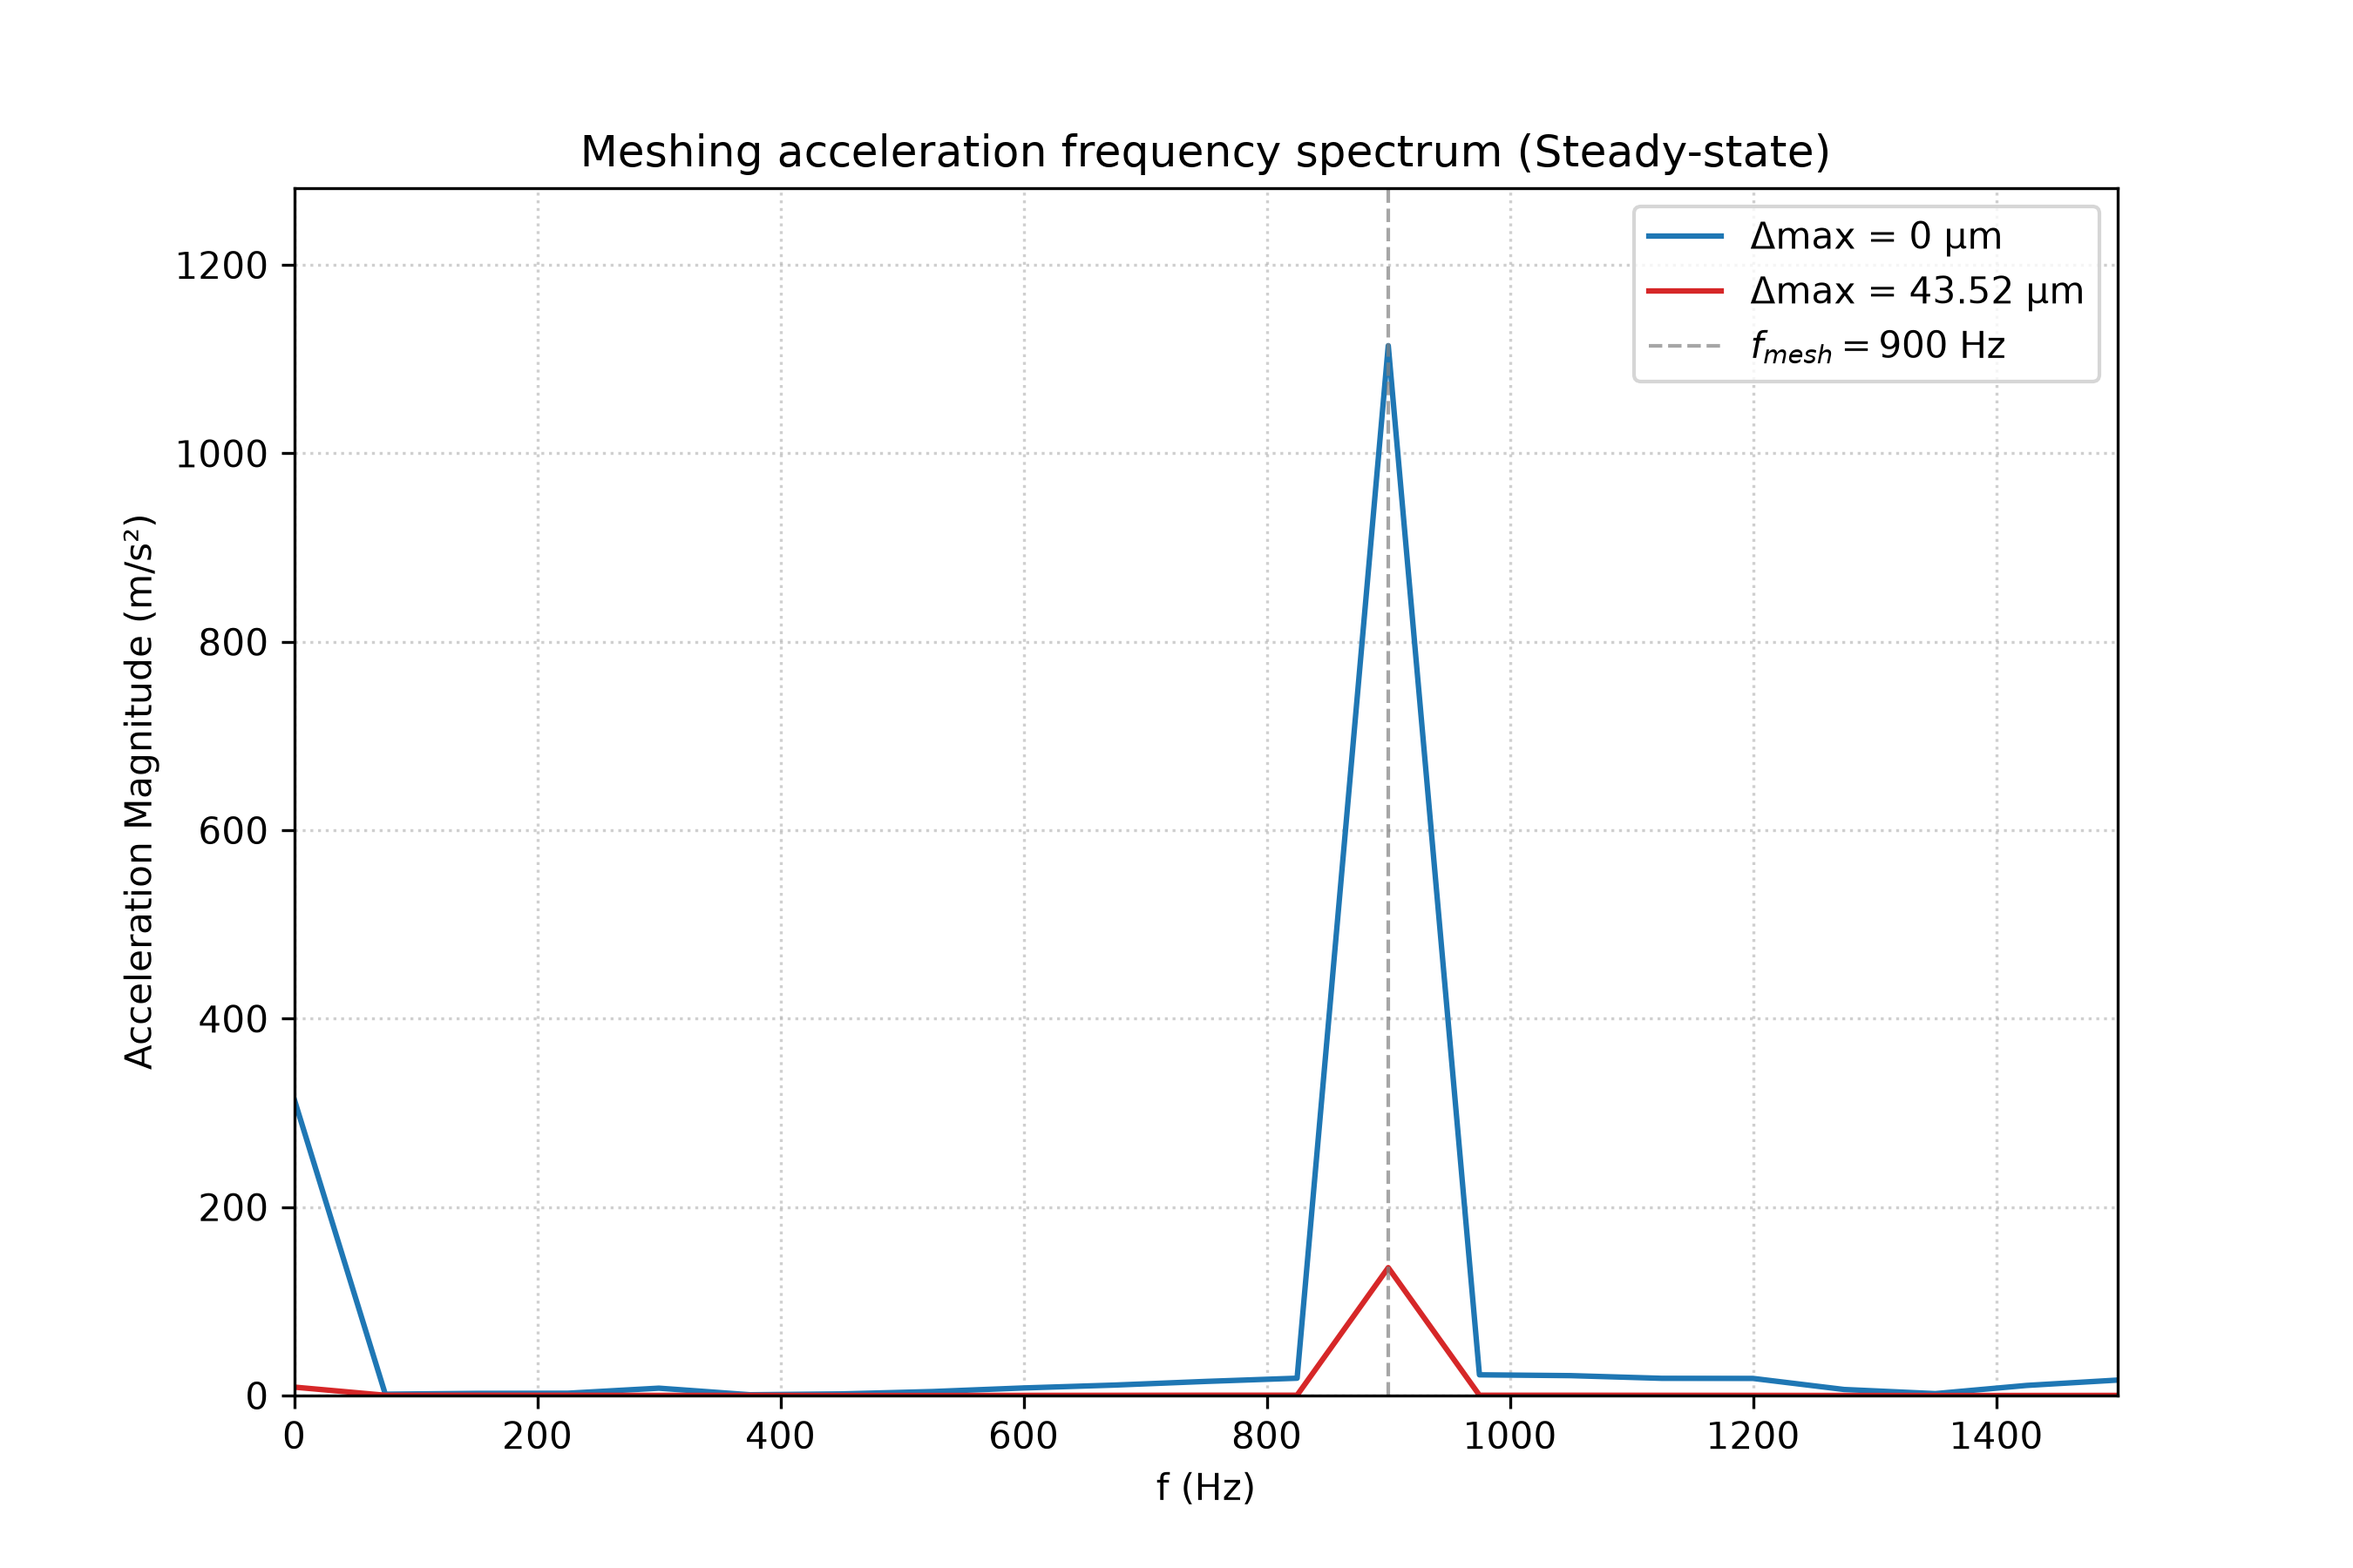
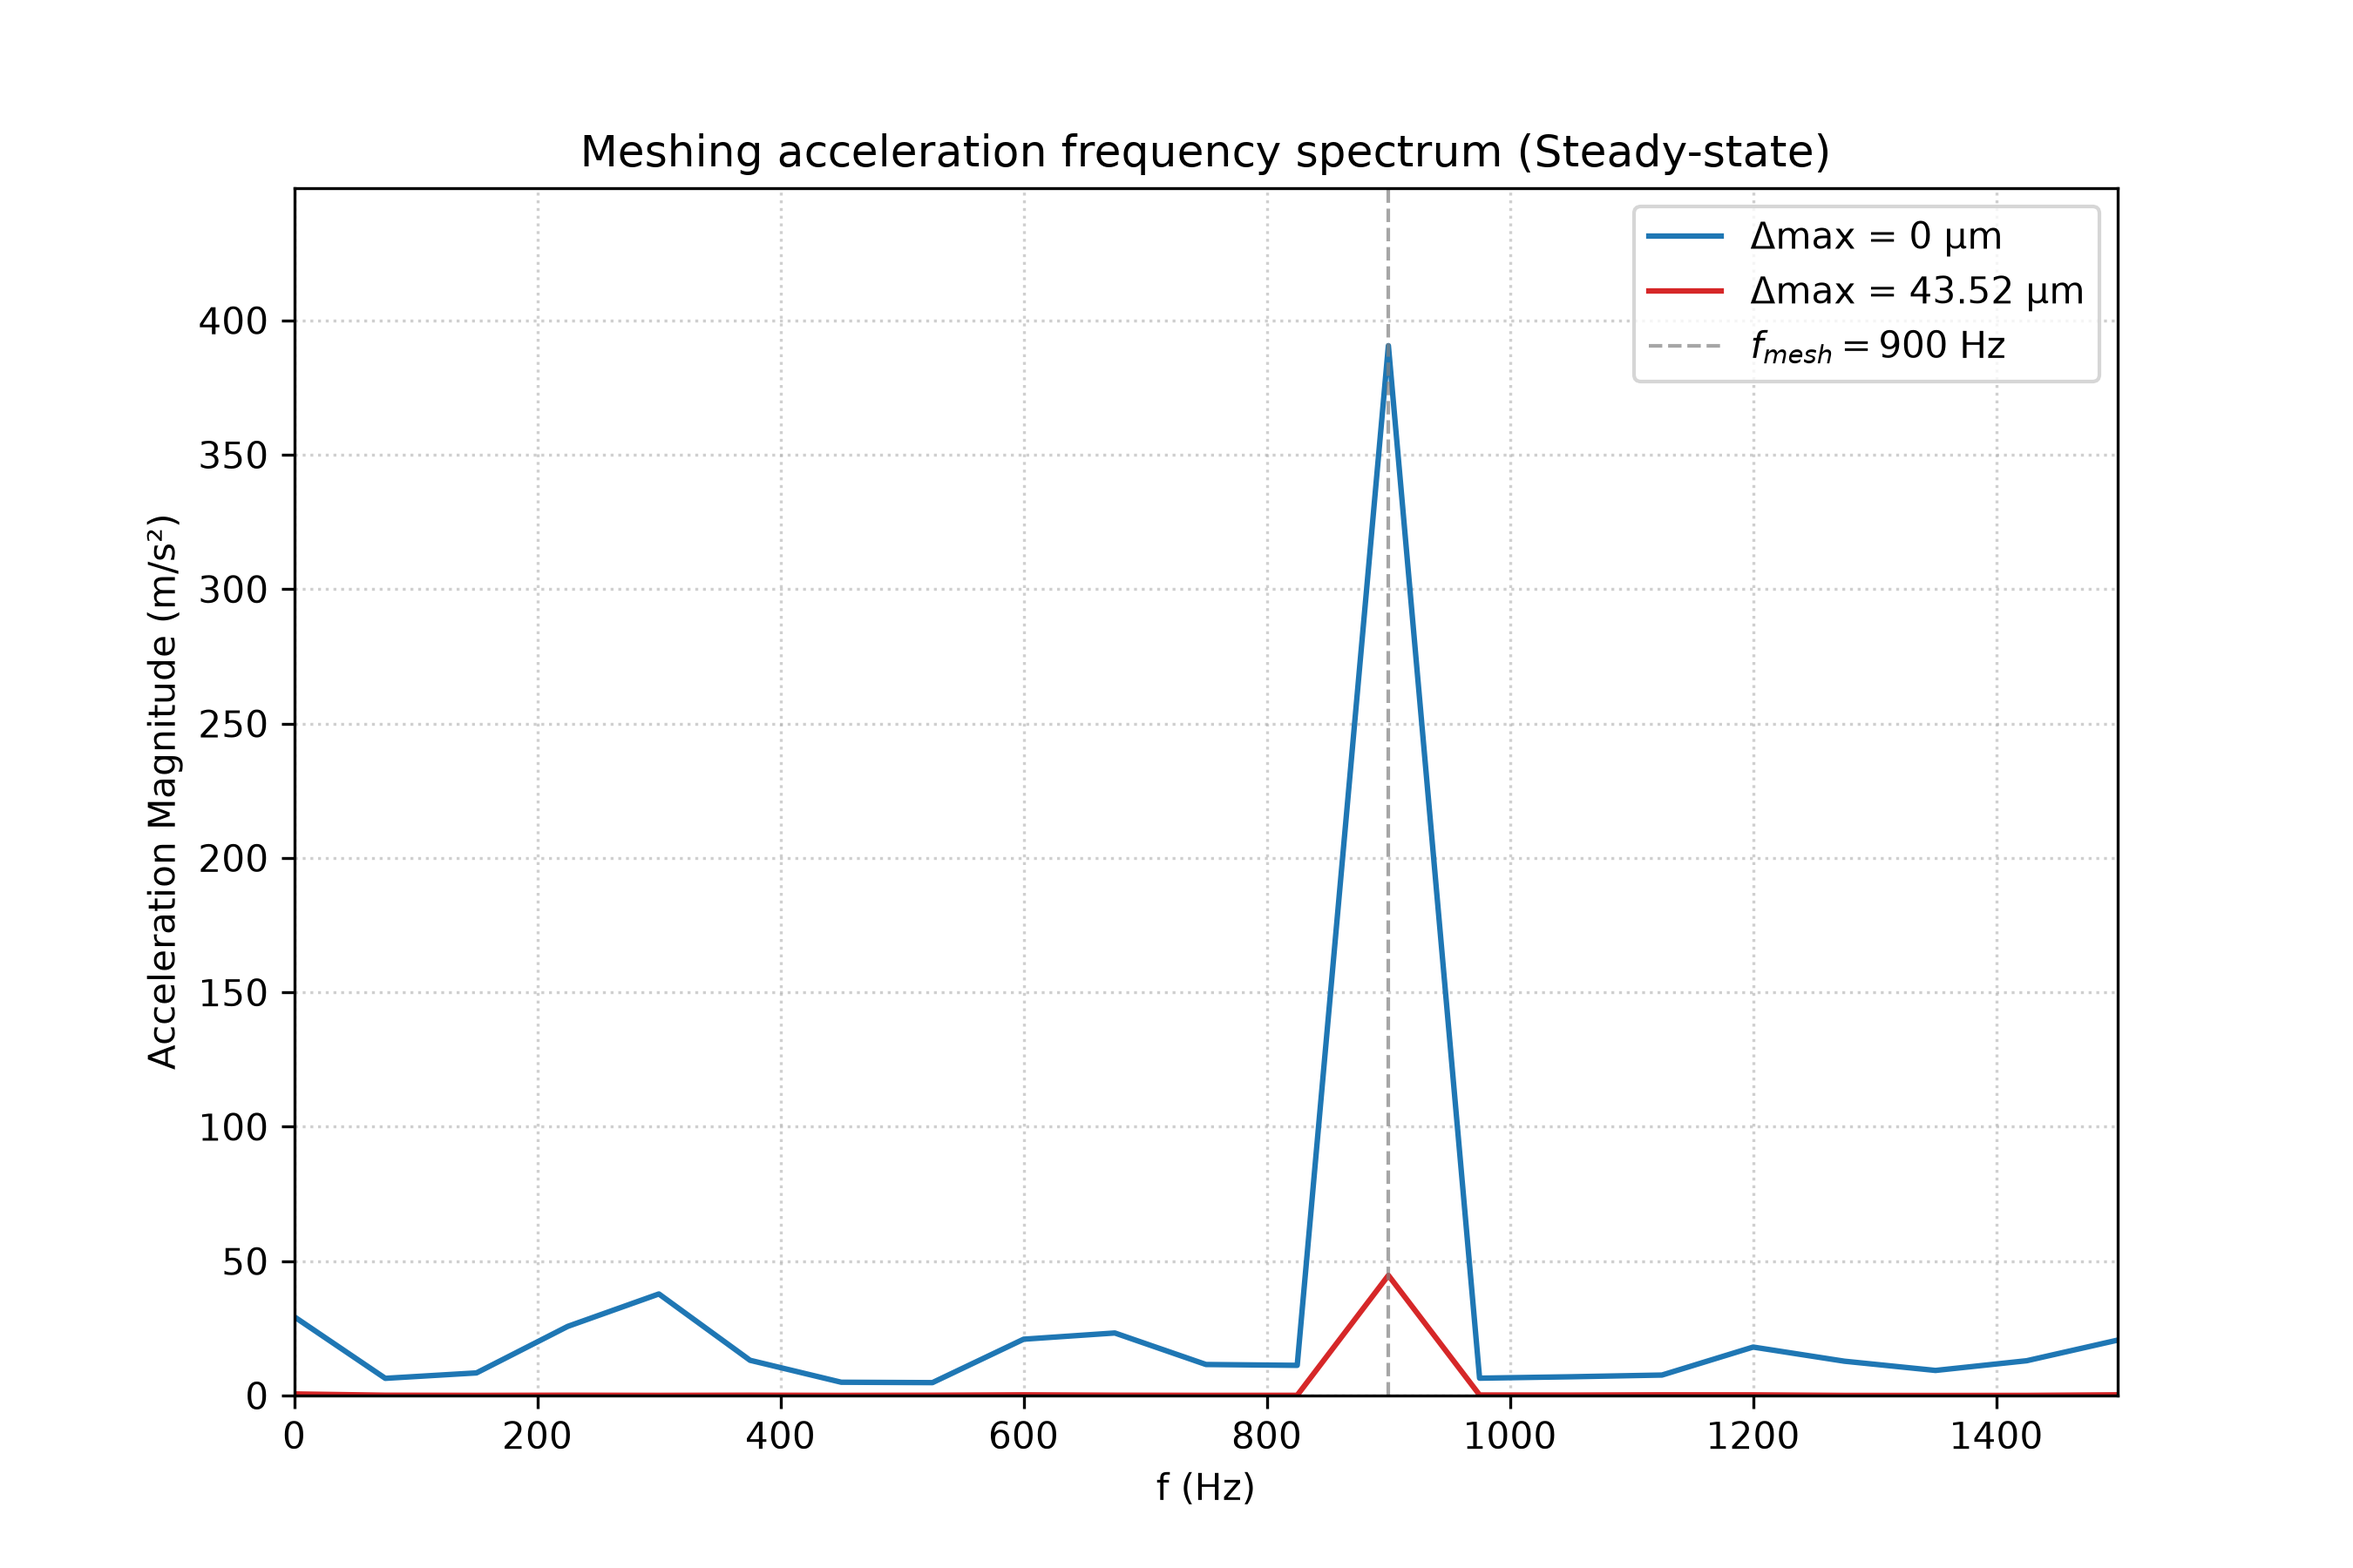
Parametric resolution presets
- Parametric Discretization & Presets: Added `points_per_tooth` and resolution presets (`fast`, `standard`, `fine`, `ultra`) across `energy.py`, `optimization.py`, and `plots.py`. Defaulted plot generation to `ultra` (400 pts/tooth ~ 10,800 steps for z1=27) for 1:1 parity with MATLAB's `step = 1e4` while maintaining full backward compatibility with explicit `step`.

- Zero-Jitter Relative Velocity & Plot Alignments: Resolved sampling discretization jitter (picket-fence effect) in `plots.py` via synchronous analytical cycle tiling, ensuring 100% identical velocity peaks across full rotation. Automated dual-axis proportional scaling for tooth dynamic force and Load Sharing Ratio (R1).

- Testing & Documentation: Extended pytest suite to 22 passing tests and clarified optimization documentation (Golden Section Search & Brent's method parity with MATLAB `fminbnd`).

diff --git a/python/tpm/plots.py b/python/tpm/plots.py
@@ -1,7 +1,7 @@
 from __future__ import annotations
 
 from pathlib import Path
-from typing import Dict
+from typing import Dict, Optional
 
 import matplotlib
 
@@ -14,7 +14,14 @@ from .energy import precompute_energy_state
 from .friction import precompute_friction_state
 
 
-def generate_validation_plots(system, deltamax_um: float = 40.0, output_dir: str | Path | None = None) -> Dict[str, Path]:
+def generate_validation_plots(
+    system,
+    deltamax_um: float = 40.0,
+    output_dir: str | Path | None = None,
+    step: Optional[int] = None,
+    points_per_tooth: Optional[int] = None,
+    resolution: str = "ultra",
+) -> Dict[str, Path]:
     """Generate MATLAB-style validation plots matching the TCC and paper."""
     output_dir = Path(output_dir or "./plots")
     output_dir.mkdir(parents=True, exist_ok=True)
@@ -50,7 +57,15 @@ def generate_validation_plots(system, deltamax_um: float = 40.0, output_dir: str
         deltamax_um=deltamax_um,
     )
 
-    step = 1000
+    z1 = int(base_system.z1)
+    if points_per_tooth is not None:
+        step = int(z1 * points_per_tooth)
+    elif step is not None:
+        step = int(step)
+    else:
+        preset_map = {"fast": 50, "standard": 100, "fine": 200, "ultra": 400, "publication": 400}
+        step = int(z1 * preset_map.get(resolution, 400))
+
     w = base_system.operation["w"]
     t_period = 2.0 * np.pi / w
     F = base_system.operation["F"]
@@ -207,9 +222,41 @@ def generate_validation_plots(system, deltamax_um: float = 40.0, output_dir: str
     axes[1, 0].grid(True, linestyle=":", alpha=0.6)
     axes[1, 0].legend(loc="upper right")
 
-    vrel_base = base_energy.get("vrel", base_energy.get("vrelv"))
-    if vrel_base is not None:
-        axes[1, 1].plot(t, vrel_base, label="Δmax = 0 μm", linewidth=1.0, color="#1f77b4")
+    # Construct exact full-rotation relative velocity profile with zero sampling jitter
+    th_contact = 2.0 * thetad + thetas
+    t_cycle = th_contact / w
+    n_pts_per_cycle = max(100, int(round(step / z1)))
+    n_full_cycles = int(np.floor(t_period / t_cycle))
+    remainder_time = t_period - n_full_cycles * t_cycle
+
+    th_single_cycle = np.linspace(0.0, th_contact, n_pts_per_cycle)
+    phi_single_cycle = th_single_cycle + alpha10
+    x1_sc = rb1 * (thetab1 + phi_single_cycle)
+    x2_sc = L - x1_sc
+    v_single_cycle = np.abs(w * x1_sc / 1000.0 - (rp1 / rp2) * w * x2_sc / 1000.0)
+
+    t_vrel_list = []
+    vrel_list = []
+    for c in range(n_full_cycles):
+        t_c = c * t_cycle + np.linspace(0.0, t_cycle, n_pts_per_cycle, endpoint=False)
+        t_vrel_list.append(t_c)
+        vrel_list.append(v_single_cycle)
+
+    if remainder_time > 0:
+        n_rem = max(10, int(round(n_pts_per_cycle * remainder_time / t_cycle)))
+        th_rem = np.linspace(0.0, remainder_time * w, n_rem)
+        phi_rem = th_rem + alpha10
+        x1_rem = rb1 * (thetab1 + phi_rem)
+        x2_rem = L - x1_rem
+        v_rem = np.abs(w * x1_rem / 1000.0 - (rp1 / rp2) * w * x2_rem / 1000.0)
+        t_rem = n_full_cycles * t_cycle + th_rem / w
+        t_vrel_list.append(t_rem)
+        vrel_list.append(v_rem)
+
+    t_vrel = np.concatenate(t_vrel_list)
+    vrel_clean = np.concatenate(vrel_list)
+
+    axes[1, 1].plot(t_vrel, vrel_clean, label="Δmax = 0 μm", linewidth=1.0, color="#1f77b4")
     axes[1, 1].set_title("Contact relative velocity (Full rotation)")
     axes[1, 1].set_xlabel("t (s)")
     axes[1, 1].set_ylabel("v_rel (m/s)")

diff --git a/python/tests/test_energy.py b/python/tests/test_energy.py
@@ -77,3 +77,32 @@ def test_integral_compliance_matches_matlab_formula_structure():
     value = _integral_compliance("ikbi", 0.2, 0.3, 0.4, 206e9, 25.0, 0.3)
     assert np.isfinite(value)
     assert value > 0.0
+
+
+def test_energy_state_resolution_presets_and_points_per_tooth():
+    from tpm.faithful import GearSystem
+
+    system = GearSystem(
+        z1=27,
+        z2=35,
+        module=3.0,
+        alpha_deg=20.0,
+        b_mm=25.0,
+        elasticity_modulus=206e9,
+        poisson_ratio=0.3,
+        density=7850.0,
+        power_w=80e3,
+        rpm=2000.0,
+        lubricant_density=870.0,
+        temperature_c=60.0,
+    )
+
+    state_fast = precompute_energy_state(system, resolution="fast")
+    assert state_fast["k_te"].shape == (27 * 50,)
+
+    state_std = precompute_energy_state(system, resolution="standard")
+    assert state_std["k_te"].shape == (27 * 100,)
+
+    state_pts = precompute_energy_state(system, points_per_tooth=75)
+    assert state_pts["k_te"].shape == (27 * 75,)
+

diff --git a/python/tests/test_plots.py b/python/tests/test_plots.py
@@ -35,3 +35,25 @@ def test_generate_validation_plots_writes_files(tmp_path: Path) -> None:
     }
     for path in outputs.values():
         assert path.exists()
+
+
+def test_generate_validation_plots_with_resolution_fast(tmp_path: Path) -> None:
+    system = GearSystem(
+        z1=27,
+        z2=35,
+        module=3.0,
+        alpha_deg=20.0,
+        b_mm=25.0,
+        elasticity_modulus=206e9,
+        poisson_ratio=0.3,
+        density=7850.0,
+        power_w=80e3,
+        rpm=2000.0,
+        lubricant_density=870.0,
+        temperature_c=60.0,
+    )
+
+    outputs = generate_validation_plots(system, deltamax_um=40.0, output_dir=tmp_path, resolution="fast")
+    for path in outputs.values():
+        assert path.exists()
+
